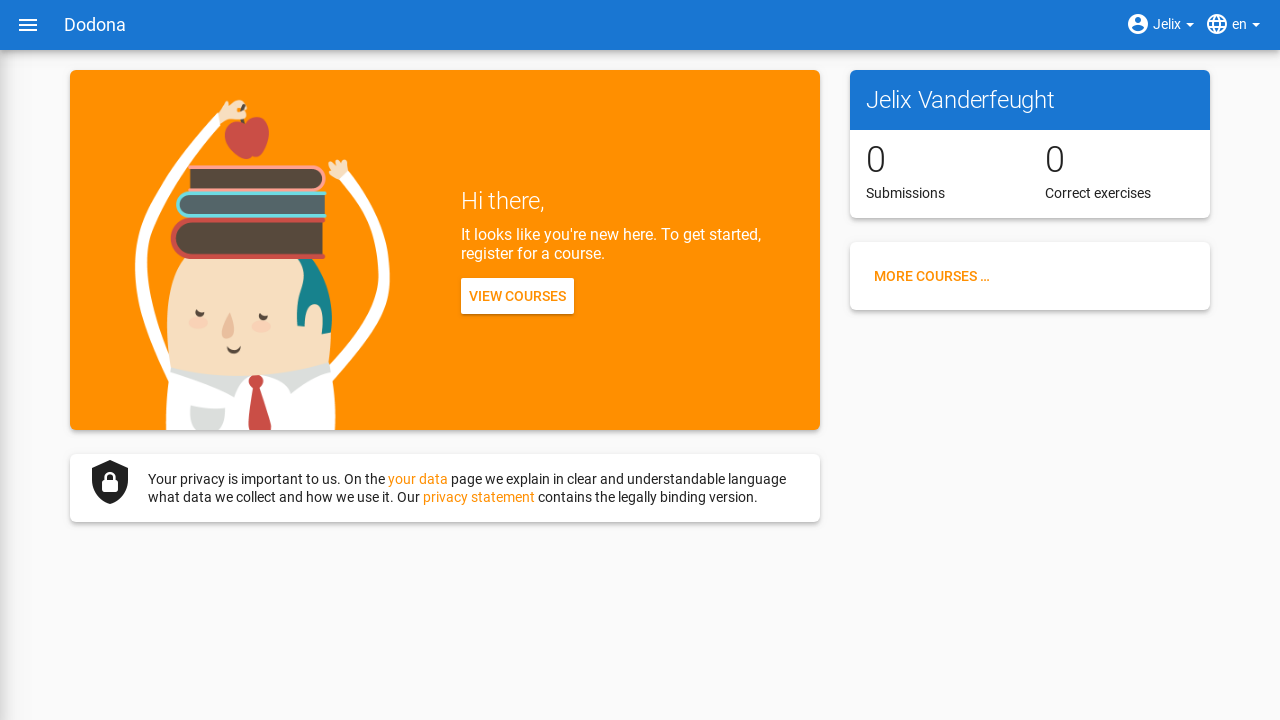
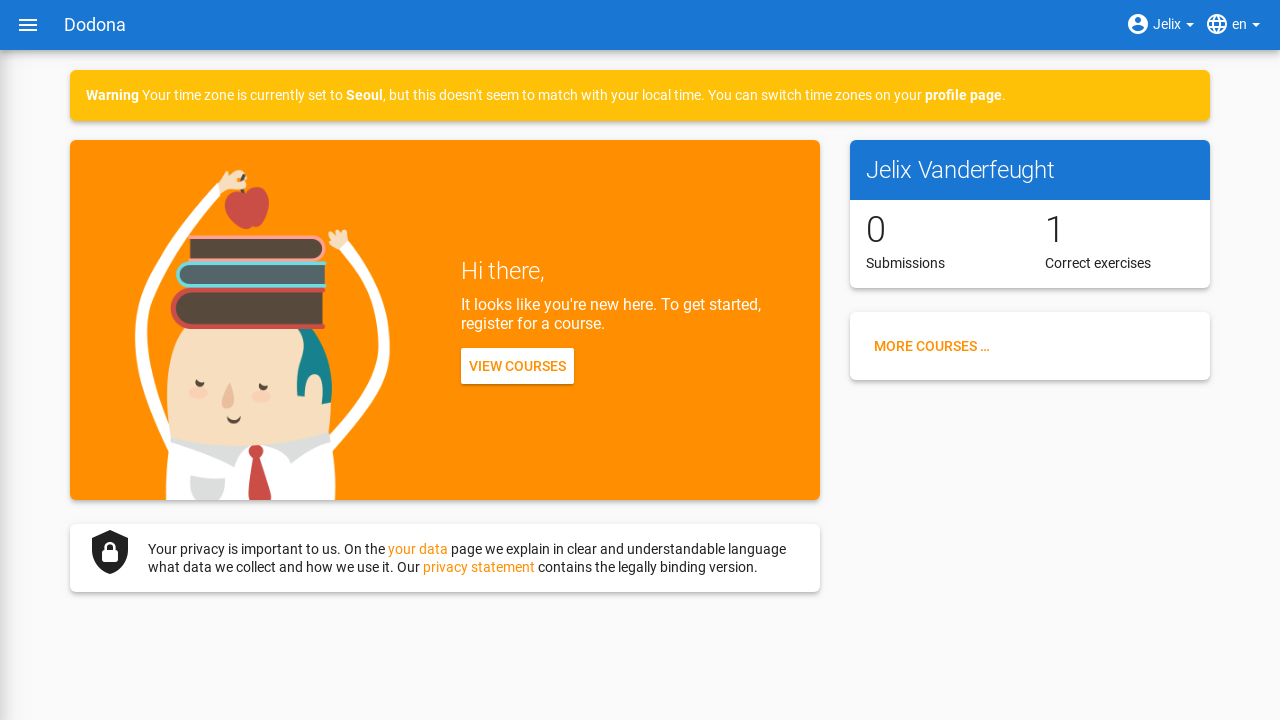
Fixed all links to empty h1 anchors and updated wrong_timezone image to actualy show the timezon warning

Changed region(s): [[0.0312, 0.0917, 0.9688, 0.825], [0.3438, 0.275, 0.5938, 0.55], [0.6562, 0.5194, 0.9375, 0.55]]

diff --git a/en/guides/for-students/exercises/README.md b/en/guides/for-students/exercises/README.md
@@ -7,7 +7,7 @@ description: "Tutorial: oefeningen handleiding voor studenten"
 
 Lesgevers kunnen **oefeningen** opstellen waarvoor je [oplossingen](#navigeren-naar-een-oplossing) kunt [indienen](#indienen-van-een-oplossing). Cursusbeheerders kunnen deze oefeningen aan hun [cursussen]() toevoegen. Daardoor zijn er verschillende plaatsen waar je een oefening kunt selecteren:
 
--   Op een [cursuspagina](../courses/#cursuspagina) kan je een [oefening](#navigeren-naar-een-oefening) selecteren uit een [oefeningenreeks]() door op de naam van de oefening te drukken.
+-   Op een cursuspagina kan je een [oefening](#navigeren-naar-een-oefening) selecteren uit een [oefeningenreeks]() door op de naam van de oefening te drukken.
 
     ![image](./student.course_exercise_selection.png)
 
@@ -17,13 +17,13 @@ Lesgevers kunnen **oefeningen** opstellen waarvoor je [oplossingen](#navigeren-n
 
 <h1 id="oefeningpagina"></h1>
 
-Na [selectie](#navigeren-naar-een-oefening) van een [oefening](#navigeren-naar-een-oefening) navigeer je naar de **oefeningpagina**. Bovenaan staat een paneel met de naam en de beschrijving van de oefening. De weergave van deze componenten is afhankelijk van de geselecteerde [taal](../login-and-settings/#selecteren-van-de-taal). Als bij het opstellen van de oefening een vertaling voorzien werd van de naam en de beschrijving in de geselecteerde taal, dan zullen deze componenten van de oefening ook in die taal weergegeven worden.
+Na [selectie](#navigeren-naar-een-oefening) van een [oefening](#navigeren-naar-een-oefening) navigeer je naar de **oefeningpagina**. Bovenaan staat een paneel met de naam en de beschrijving van de oefening. De weergave van deze componenten is afhankelijk van de geselecteerde [taal](../login-and-settings/../login-and-settings/#selecteren-van-de-taal). Als bij het opstellen van de oefening een vertaling voorzien werd van de naam en de beschrijving in de geselecteerde taal, dan zullen deze componenten van de oefening ook in die taal weergegeven worden.
 
 ![De [ISBN](https://dodona.ugent.be/en/exercises/910319224/) oefening op Dodona.](./student.exercise_start.png)
 
 ::: tip
 
-Als je een actie aan het uitvoeren bent op een [oefening](#navigeren-naar-een-oefening) dan verschijnt de naam van de oefening naast <span class="guilabel">Dodona</span> aan de linkerkant van de [navigatiebalk](../login-and-settings/#selecteren-van-de-taal), eventueel voorafgegaan door de naam van de [cursus]() en de naam van de [oefeningenreeks]() waaruit je de oefening [geselecteerd](#navigeren-naar-een-oefening) hebt. Door in de navigatiebalk op de naam van de oefening te drukken, navigeer je naar de [oefeningpagina](#oefeningpagina). Door in de navigatiebalk op de naam van de oefeningenreeks te drukken, navigeer je naar de oefeningenreeks op de [cursuspagina](../courses/#cursuspagina). Door in de navigatiebalk op de naam van de cursus te drukken, navigeer je naar de cursuspagina.
+Als je een actie aan het uitvoeren bent op een [oefening](#navigeren-naar-een-oefening) dan verschijnt de naam van de oefening naast <span class="guilabel">Dodona</span> aan de linkerkant van de [navigatiebalk](../login-and-settings/#selecteren-van-de-taal), eventueel voorafgegaan door de naam van de [cursus]() en de naam van de [oefeningenreeks]() waaruit je de oefening [geselecteerd](#navigeren-naar-een-oefening) hebt. Door in de navigatiebalk op de naam van de oefening te drukken, navigeer je naar de [oefeningpagina](#oefeningpagina). Door in de navigatiebalk op de naam van de oefeningenreeks te drukken, navigeer je naar de oefeningenreeks op de cursuspagina. Door in de navigatiebalk op de naam van de cursus te drukken, navigeer je naar de cursuspagina.
 
 ![image](./student.exercise_crumbs.png)
 :::
@@ -79,7 +79,7 @@ Binnen een [cursus]() kun je **oplossingen** [indienen](#indienen-van-een-oploss
 
     ![image](./student.all_submissions_link.png)
 
--   Druk op de statistiek <span class="guilabel">Inzendingen</span> in het kaartje van een cursus op je [startpagina](../login-and-settings/#startpagina) of op de [cursuspagina](../courses/#cursuspagina) voor een overzicht van alle [oplossingen](#navigeren-naar-een-oplossing) die je binnen de [cursus]() hebt [ingediend](#indienen-van-een-oplossing).
+-   Druk op de statistiek <span class="guilabel">Inzendingen</span> in het kaartje van een cursus op je [startpagina](../login-and-settings/#startpagina) of op de cursuspagina voor een overzicht van alle [oplossingen](#navigeren-naar-een-oplossing) die je binnen de [cursus]() hebt [ingediend](#indienen-van-een-oplossing).
 
     ![image](./student.course_submissions.png)
 
@@ -116,7 +116,7 @@ De naam van de [oefening](#navigeren-naar-een-oefening) waarvoor de [oplossing](
 
 <span class="guilabel">Cursus</span>
 
-De naam van de [cursus]() waarbinnen de [oplossing](#navigeren-naar-een-oplossing) werd [ingediend](#indienen-van-een-oplossing). Druk op de naam om naar de [cursuspagina](../courses/#cursuspagina) te navigeren.
+De naam van de [cursus]() waarbinnen de [oplossing](#navigeren-naar-een-oplossing) werd [ingediend](#indienen-van-een-oplossing). Druk op de naam om naar de cursuspagina te navigeren.
 
 ::: details Notitie
 Dit informatieveld ontbreekt als de [oplossing](#navigeren-naar-een-oplossing) niet binnen de context van een [cursus]() werd [ingediend](#indienen-van-een-oplossing).
@@ -129,7 +129,6 @@ Dit informatieveld ontbreekt als de [oplossing](#navigeren-naar-een-oplossing) n
 Het **tijdstip** waarop de [oplossing](#navigeren-naar-een-oplossing) werd [ingediend](#indienen-van-een-oplossing). Dit tijdstip wordt op een gebruiksvriendelijke manier weergegeven, bijvoorbeeld <span class="guilabel">ongeveer 2 uur geleden</span>. Als je de muiswijzer boven het tijdstip plaatst dan krijg je de gedetailleerde weergave van het tijdstip te zien.
 
 <h1 id="status"/>
-<h1 id="icoontjes"/>
 <span class="guilabel">Status</span>
 
 De **status** die Dodona of de [judge](#interpreteren-van-feedback) aan de [oplossing](#navigeren-naar-een-oplossing) heeft toegekend. Met elke status correspondeert een **icoontje** dat in elke oplijsting van de [oplossing](#navigeren-naar-een-oplossing) wordt weergegeven. Statussen met zwarte of gele icoontjes worden door Dodona toegekend. Statussen met groene of rode icoontjes worden door de judge toegekend. Betekenis van de mogelijke statussen die aan de oplossing kunnen toegekend worden:

diff --git a/nl/guides/for-students/exercises/README.md b/nl/guides/for-students/exercises/README.md
@@ -8,7 +8,7 @@ next: ../courses/
 
 Lesgevers kunnen **oefeningen** opstellen waarvoor je [oplossingen](#navigeren-naar-een-oplossing) kunt [indienen](#indienen-van-een-oplossing). Cursusbeheerders kunnen deze oefeningen aan hun [cursussen]() toevoegen. Daardoor zijn er verschillende plaatsen waar je een oefening kunt selecteren:
 
--   Op een [cursuspagina](../courses/#cursuspagina) kan je een [oefening](#navigeren-naar-een-oefening) selecteren uit een [oefeningenreeks]() door op de naam van de oefening te drukken.
+-   Op een cursuspagina kan je een [oefening](#navigeren-naar-een-oefening) selecteren uit een [oefeningenreeks]() door op de naam van de oefening te drukken.
 
     ![image](./student.course_exercise_selection.png)
 
@@ -24,7 +24,7 @@ Na [selectie](#navigeren-naar-een-oefening) van een [oefening](#navigeren-naar-e
 
 ::: tip
 
-Als je een actie aan het uitvoeren bent op een [oefening](#navigeren-naar-een-oefening) dan verschijnt de naam van de oefening naast <span class="guilabel">Dodona</span> aan de linkerkant van de [navigatiebalk](../login-and-settings/#selecteren-van-de-taal), eventueel voorafgegaan door de naam van de [cursus]() en de naam van de [oefeningenreeks]() waaruit je de oefening [geselecteerd](#navigeren-naar-een-oefening) hebt. Door in de navigatiebalk op de naam van de oefening te drukken, navigeer je naar de [oefeningpagina](#oefeningpagina). Door in de navigatiebalk op de naam van de oefeningenreeks te drukken, navigeer je naar de oefeningenreeks op de [cursuspagina](../courses/#cursuspagina). Door in de navigatiebalk op de naam van de cursus te drukken, navigeer je naar de cursuspagina.
+Als je een actie aan het uitvoeren bent op een [oefening](#navigeren-naar-een-oefening) dan verschijnt de naam van de oefening naast <span class="guilabel">Dodona</span> aan de linkerkant van de [navigatiebalk](../login-and-settings/#selecteren-van-de-taal), eventueel voorafgegaan door de naam van de [cursus]() en de naam van de [oefeningenreeks]() waaruit je de oefening [geselecteerd](#navigeren-naar-een-oefening) hebt. Door in de navigatiebalk op de naam van de oefening te drukken, navigeer je naar de [oefeningpagina](#oefeningpagina). Door in de navigatiebalk op de naam van de oefeningenreeks te drukken, navigeer je naar de oefeningenreeks op de cursuspagina. Door in de navigatiebalk op de naam van de cursus te drukken, navigeer je naar de cursuspagina.
 
 ![image](./student.exercise_crumbs.png)
 :::
@@ -80,7 +80,7 @@ Binnen een [cursus]() kun je **oplossingen** [indienen](#indienen-van-een-oploss
 
     ![image](./student.all_submissions_link.png)
 
--   Druk op de statistiek <span class="guilabel">Inzendingen</span> in het kaartje van een cursus op je [startpagina](../login-and-settings/#startpagina) of op de [cursuspagina](../courses/#cursuspagina) voor een overzicht van alle [oplossingen](#navigeren-naar-een-oplossing) die je binnen de [cursus]() hebt [ingediend](#indienen-van-een-oplossing).
+-   Druk op de statistiek <span class="guilabel">Inzendingen</span> in het kaartje van een cursus op je [startpagina](../login-and-settings/#startpagina) of op de cursuspagina voor een overzicht van alle [oplossingen](#navigeren-naar-een-oplossing) die je binnen de [cursus]() hebt [ingediend](#indienen-van-een-oplossing).
 
     ![image](./student.course_submissions.png)
 
@@ -117,7 +117,7 @@ De naam van de [oefening](#navigeren-naar-een-oefening) waarvoor de [oplossing](
 
 <span class="guilabel">Cursus</span>
 
-De naam van de [cursus]() waarbinnen de [oplossing](#navigeren-naar-een-oplossing) werd [ingediend](#indienen-van-een-oplossing). Druk op de naam om naar de [cursuspagina](../courses/#cursuspagina) te navigeren.
+De naam van de [cursus]() waarbinnen de [oplossing](#navigeren-naar-een-oplossing) werd [ingediend](#indienen-van-een-oplossing). Druk op de naam om naar de cursuspagina te navigeren.
 
 ::: details Notitie
 Dit informatieveld ontbreekt als de [oplossing](#navigeren-naar-een-oplossing) niet binnen de context van een [cursus]() werd [ingediend](#indienen-van-een-oplossing).
@@ -130,7 +130,6 @@ Dit informatieveld ontbreekt als de [oplossing](#navigeren-naar-een-oplossing) n
 Het **tijdstip** waarop de [oplossing](#navigeren-naar-een-oplossing) werd [ingediend](#indienen-van-een-oplossing). Dit tijdstip wordt op een gebruiksvriendelijke manier weergegeven, bijvoorbeeld <span class="guilabel">ongeveer 2 uur geleden</span>. Als je de muiswijzer boven het tijdstip plaatst dan krijg je de gedetailleerde weergave van het tijdstip te zien.
 
 <h1 id="status"/>
-<h1 id="icoontjes"/>
 <span class="guilabel">Status</span>
 
 De **status** die Dodona of de [judge](#interpreteren-van-feedback) aan de [oplossing](#navigeren-naar-een-oplossing) heeft toegekend. Met elke status correspondeert een **icoontje** dat in elke oplijsting van de [oplossing](#navigeren-naar-een-oplossing) wordt weergegeven. Statussen met zwarte of gele icoontjes worden door Dodona toegekend. Statussen met groene of rode icoontjes worden door de judge toegekend. Betekenis van de mogelijke statussen die aan de oplossing kunnen toegekend worden:

diff --git a/en/guides/for-students/courses/README.md b/en/guides/for-students/courses/README.md
@@ -59,7 +59,7 @@ Dezelfde [oefening](../exercises/#navigeren-naar-een-oefening) kan ook voorkomen
 
 De **statistieken** van een [oefening](../exercises/#navigeren-naar-een-oefening) uit een [oefeningenreeks]() bestaan uit twee getallen *c/i*. Daarbij staat *i* voor het aantal gebruikers (studenten en cursusbeheerders) dat in de [cursus]() al minstens één [oplossing](../exercises/#navigeren-naar-een-oplossing) heeft [ingediend](../exercises/#navigeren-naar-een-oplossing) voor de oefening en *c* voor het aantal gebruikers (studenten en cursusbeheerders) dat in de cursus al minstens één *correcte* oplossing heeft ingediend voor de oefening.
 
-<h1 id="indienstatus"></h1>
+### Indienstatus
 
 Je **indienstatus** voor een [oefening](../exercises/#navigeren-naar-een-oefening) uit een [oefeningenreeks]() wordt bepaald op basis van de [oplossing](../exercises/#navigeren-naar-een-oplossing) die je als laatste in de [cursus]() hebt [ingediend](../exercises/#navigeren-naar-een-oplossing) voor de oefening. Als er een [deadline](#deadline) werd ingesteld voor de oefeningenreeks, dan is dit de laatst ingediende oplossing voorafgaand aan de deadline. In de oefeningenreeks zie je vóór elke oefening ook een **icoontje** dat correspondeert met je indienstatus voor de oefening. Als je in een oefeningenreeks drukt op je indienstatus voor een oefening, dan navigeer je naar de [oplossing](../exercises/#navigeren-naar-een-oplossing) die gebruikt werd om de indienstatus te bepalen (als je effectief een oplossing hebt ingediend op basis waarvan de indienstatus kon bepaald worden).
 
@@ -84,7 +84,7 @@ Mogelijke weergaven van je [indienstatus](#indienstatus) nadat de [deadline](#de
 
 Als je **vóór het verstrijken van de deadline** van een [oefeningenreeks]() een [oplossing](../exercises/#navigeren-naar-een-oplossing) [indient](../exercises/#navigeren-naar-een-oefening) voor een [oefening](../exercises/#navigeren-naar-een-oefening) uit de oefeningenreeks, dan kan je [indienstatus](#indienstatus) voor de oefening nog wijzigen omdat die indienstatus altijd gebaseerd is op je laatst ingediende oplossing vóór de [deadline](#deadline). Het is dus je eigen verantwoordelijkheid om ervoor te zorgen dat je laatst ingediende oplossing vóór de deadline ook je meest correcte oplossing is. Je kunt eventueel een voorgaande oplossing selecteren en [opnieuw indienen]().
 
-Dodona toont een **waarschuwingssymbool** naast je [indienstatus](#indienstatus) van een [oefening](../exercises/#navigeren-naar-een-oefening) in een [oefeningenreeks]() en in de lijst met [recente]() op je [startpagina](../login-and-settings/#startpagina) als je laatst [ingediende](../exercises/#navigeren-naar-een-oplossing) [oplossing](../exercises/#navigeren-naar-een-oplossing) voor de oefening vóór de [deadline](#deadline) van de oefeningenreeks een [status](../exercises/#status) heeft die slechter is dan de status van een oplossing voor de oefening die je daarvoor hebt ingediend. Je kunt eventueel een voorgaande oplossing selecteren en opnieuw indienen.
+Dodona toont een **waarschuwingssymbool** naast je [indienstatus](#indienstatus) van een [oefening](../exercises/#navigeren-naar-een-oefening) in een [oefeningenreeks]() en in de lijst met [recente]() op je [startpagina](../login-and-settings/#startpagina) als je laatst [ingediende](../exercises/#navigeren-naar-een-oplossing) [oplossing](../exercises/#navigeren-naar-een-oplossing) voor de oefening vóór de [deadline](#deadline) van de oefeningenreeks een status heeft die slechter is dan de status van een oplossing voor de oefening die je daarvoor hebt ingediend. Je kunt eventueel een voorgaande oplossing selecteren en opnieuw indienen.
 
 ![image](./student.deadline_series_warning.png)
 

diff --git a/nl/guides/for-students/courses/README.md b/nl/guides/for-students/courses/README.md
@@ -59,7 +59,7 @@ Dezelfde [oefening](../exercises/#navigeren-naar-een-oefening) kan ook voorkomen
 
 De **statistieken** van een [oefening](../exercises/#navigeren-naar-een-oefening) uit een [oefeningenreeks]() bestaan uit twee getallen *c/i*. Daarbij staat *i* voor het aantal gebruikers (studenten en cursusbeheerders) dat in de [cursus]() al minstens één [oplossing](../exercises/#navigeren-naar-een-oplossing) heeft [ingediend](../exercises/#navigeren-naar-een-oplossing) voor de oefening en *c* voor het aantal gebruikers (studenten en cursusbeheerders) dat in de cursus al minstens één *correcte* oplossing heeft ingediend voor de oefening.
 
-<h1 id="indienstatus"></h1>
+### Indienstatus
 
 Je **indienstatus** voor een [oefening](../exercises/#navigeren-naar-een-oefening) uit een [oefeningenreeks]() wordt bepaald op basis van de [oplossing](../exercises/#navigeren-naar-een-oplossing) die je als laatste in de [cursus]() hebt [ingediend](../exercises/#navigeren-naar-een-oplossing) voor de oefening. Als er een [deadline](#deadline) werd ingesteld voor de oefeningenreeks, dan is dit de laatst ingediende oplossing voorafgaand aan de deadline. In de oefeningenreeks zie je vóór elke oefening ook een **icoontje** dat correspondeert met je indienstatus voor de oefening. Als je in een oefeningenreeks drukt op je indienstatus voor een oefening, dan navigeer je naar de [oplossing](../exercises/#navigeren-naar-een-oplossing) die gebruikt werd om de indienstatus te bepalen (als je effectief een oplossing hebt ingediend op basis waarvan de indienstatus kon bepaald worden).
 
@@ -84,7 +84,7 @@ Mogelijke weergaven van je [indienstatus](#indienstatus) nadat de [deadline](#de
 
 Als je **vóór het verstrijken van de deadline** van een [oefeningenreeks]() een [oplossing](../exercises/#navigeren-naar-een-oplossing) [indient](../exercises/#navigeren-naar-een-oefening) voor een [oefening](../exercises/#navigeren-naar-een-oefening) uit de oefeningenreeks, dan kan je [indienstatus](#indienstatus) voor de oefening nog wijzigen omdat die indienstatus altijd gebaseerd is op je laatst ingediende oplossing vóór de [deadline](#deadline). Het is dus je eigen verantwoordelijkheid om ervoor te zorgen dat je laatst ingediende oplossing vóór de deadline ook je meest correcte oplossing is. Je kunt eventueel een voorgaande oplossing selecteren en [opnieuw indienen]().
 
-Dodona toont een **waarschuwingssymbool** naast je [indienstatus](#indienstatus) van een [oefening](../exercises/#navigeren-naar-een-oefening) in een [oefeningenreeks]() en in de lijst met [recente]() op je [startpagina](../login-and-settings/#startpagina) als je laatst [ingediende](../exercises/#navigeren-naar-een-oplossing) [oplossing](../exercises/#navigeren-naar-een-oplossing) voor de oefening vóór de [deadline](#deadline) van de oefeningenreeks een [status](../exercises/#status) heeft die slechter is dan de status van een oplossing voor de oefening die je daarvoor hebt ingediend. Je kunt eventueel een voorgaande oplossing selecteren en opnieuw indienen.
+Dodona toont een **waarschuwingssymbool** naast je [indienstatus](#indienstatus) van een [oefening](../exercises/#navigeren-naar-een-oefening) in een [oefeningenreeks]() en in de lijst met [recente]() op je [startpagina](../login-and-settings/#startpagina) als je laatst [ingediende](../exercises/#navigeren-naar-een-oplossing) [oplossing](../exercises/#navigeren-naar-een-oplossing) voor de oefening vóór de [deadline](#deadline) van de oefeningenreeks een status heeft die slechter is dan de status van een oplossing voor de oefening die je daarvoor hebt ingediend. Je kunt eventueel een voorgaande oplossing selecteren en opnieuw indienen.
 
 ![image](./student.deadline_series_warning.png)
 

diff --git a/en/guides/for-students/login-and-settings/README.md b/en/guides/for-students/login-and-settings/README.md
@@ -71,13 +71,13 @@ Als je beschikt over gebruikersaccounts bij verschillende externe onderwijs- of 
 Als je wilt schakelen naar een andere [gebruikersaccount](#aanmelden) dan deze die momenteel [aangemeld](#aanmelden) is, dan moet je eerst afmelden en daarna terug aanmelden met de andere gebruikersaccount.
 :::
 
-<h1 id="gebruikersmenu"/>
+### Gebruikersmenu
 
 Als je aangemeld bent dan zie je aan de rechterkant van de [navigatiebalk](#selecteren-van-de-taal) het **gebruikersmenu** met de naam uit je [gebruikersprofiel](#instellen-van-persoonlijke-voorkeuren). Het gebruikersmenu staat op de plaats waar voorheen <span class="guilabel">Aanmelden</span> stond toen je nog niet aangemeld was.
 
 ![image](./student.user_menu.png)
 
-<h1 id="startpagina"></h1>
+### Startpagina
 
 Als je [aangemeld](#aanmelden) bent dan verandert de neutrale landingspagina in een gepersonaliseerde **startpagina** met een overzicht van alle [cursussen]() waarvoor je [geregistreerd](../courses/#registreren-voor-een-cursus) bent, hun [oefeningenreeksen]() met nakende [deadlines]() en je voortgang bij het [indienen](../exercises/#indienen-van-een-oplossing) van [oplossingen](../exercises/#navigeren-naar-een-oplossing) voor [oefeningen](../exercises/#navigeren-naar-een-oefening). Je kunt dus ook makkelijk aan de landingspagina of aan je startpagina herkennen of je al dan niet aangemeld bent.
 

diff --git a/nl/guides/for-students/login-and-settings/README.md b/nl/guides/for-students/login-and-settings/README.md
@@ -71,13 +71,13 @@ Als je beschikt over gebruikersaccounts bij verschillende externe onderwijs- of 
 Als je wilt schakelen naar een andere [gebruikersaccount](#aanmelden) dan deze die momenteel [aangemeld](#aanmelden) is, dan moet je eerst afmelden en daarna terug aanmelden met de andere gebruikersaccount.
 :::
 
-<h1 id="gebruikersmenu"/>
+### Gebruikersmenu
 
 Als je aangemeld bent dan zie je aan de rechterkant van de [navigatiebalk](#selecteren-van-de-taal) het **gebruikersmenu** met de naam uit je [gebruikersprofiel](#instellen-van-persoonlijke-voorkeuren). Het gebruikersmenu staat op de plaats waar voorheen <span class="guilabel">Aanmelden</span> stond toen je nog niet aangemeld was.
 
 ![image](./student.user_menu.png)
 
-<h1 id="startpagina"></h1>
+### Startpagina
 
 Als je [aangemeld](#aanmelden) bent dan verandert de neutrale landingspagina in een gepersonaliseerde **startpagina** met een overzicht van alle [cursussen]() waarvoor je [geregistreerd](../courses/#registreren-voor-een-cursus) bent, hun [oefeningenreeksen]() met nakende [deadlines]() en je voortgang bij het [indienen](../exercises/#indienen-van-een-oplossing) van [oplossingen](../exercises/#navigeren-naar-een-oplossing) voor [oefeningen](../exercises/#navigeren-naar-een-oefening). Je kunt dus ook makkelijk aan de landingspagina of aan je startpagina herkennen of je al dan niet aangemeld bent.
 
